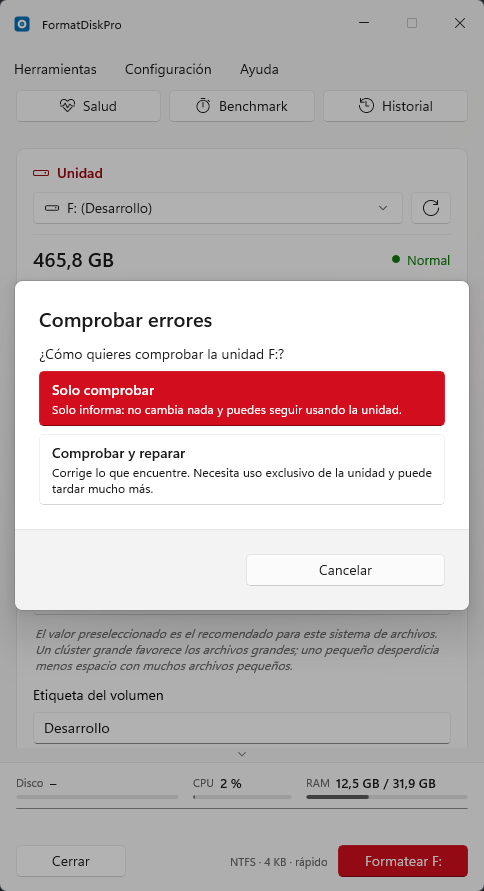
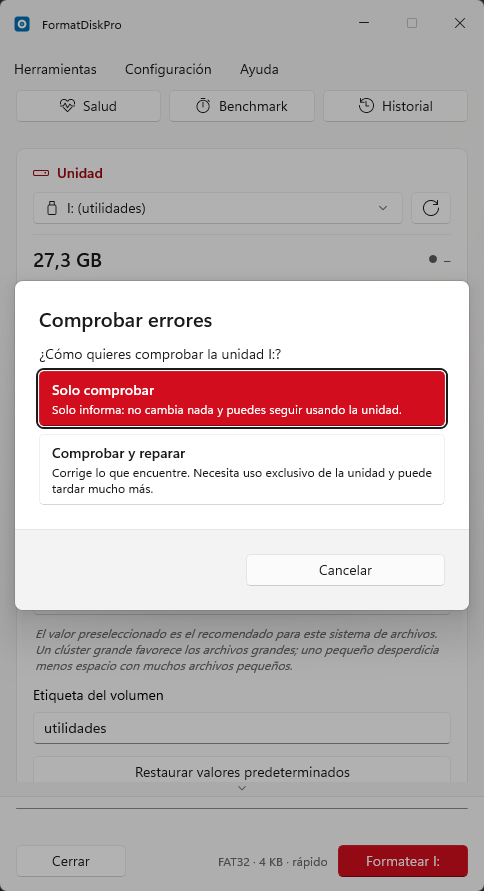
docs: T12-07 — el registro de por qué la franja sobraba, y las 12 capturas sin ella
ROADMAP.md: T12-07 con el porqué completo, el tier a 7/7 y el índice a 108.
CONTEXT.md: §2 sin los tres archivos, §3 a 626 unitarias, y una entrada
razonada con la lección —una petición de producto no exime de comprobar el
problema que dice resolver— y la trampa del borrado por rango en
Localization.cs.

CHANGELOG.md: la entrada de la franja se BORRA en vez de anotarse como
retirada. Vivía en [No publicado]: nunca llegó a un usuario, así que no hay
nada que contarle. El registro de que existió vive en el ROADMAP y en el
CONTEXT, que es donde va la ingeniería.

README.md: fuera la característica.

docs/screenshots: las 12 regeneradas sin la franja, con la USB conectada para
las dos de reinicializar. El contenido gana los ~34 px que ocupaba: la
ventana llega ya hasta «Restaurar valores predeterminados».

diff --git a/CONTEXT.md b/CONTEXT.md
@@ -53,7 +53,6 @@ src/FormatDiskPro/
 │  ├─ ErrorText.cs        Describe(ex) — texto de un fallo que NUNCA sale vacío (tipo + HRESULT si hace falta)
 │  ├─ Presets.cs          Presets integrados (nombre traducido vía NameKey) + validación de los del usuario
 │  ├─ Throughput.cs       Velocidad y ETA de operaciones largas
-│  ├─ SystemLoad.cs       Aritmética del panel de rendimiento (CPU por delta, %, escalado) + MovingAverage
 │  ├─ DeviceChange.cs     Interpretación de WM_DEVICECHANGE (autorefresco de unidades)
 │  ├─ ReleaseNotes.cs     Notas de versión (Markdown) → texto plano
 │  ├─ LegalText.cs        Licencia GPLv3 y avisos de terceros embebidos en el .exe
@@ -73,7 +72,6 @@ src/FormatDiskPro/
 │  ├─ CapacityVerifier.cs  Verificación de capacidad real
 │  ├─ AppSettings.cs       Preferencias (%AppData%\FormatDiskPro\settings.json)
 │  ├─ Notifier.cs          Aviso al terminar (sonido + parpadeo de barra de tareas, Win32)
-│  ├─ PerformanceMonitor.cs CPU/RAM del equipo por Win32 (NO PerformanceCounter: PDH está traducido)
 │  ├─ TaskbarProgress.cs   Progreso en el icono de la barra de tareas (ITaskbarList3)
 │  ├─ FormatProcess.cs     Lanza Format-Volume (PowerShell) y format.com, con progreso real
 │  ├─ UpdateService.cs     GitHub Releases: consulta, descarga, VERIFICACIÓN (firma/SHA-256), instalación
@@ -82,7 +80,6 @@ src/FormatDiskPro/
 │  ├─ MainWindow          Ventana principal, repartida en partial class por asunto (ninguna >800 líneas):
 │  │                      .xaml.cs (ciclo de vida, unidades, formato) · .DriveInfo · .FormatOptions
 │  │                      .Operations (menú Herramientas) · .HelpAndUpdates · .Preferences
-│  │                      .Performance (panel de rendimiento del pie: disco / CPU / RAM)
 │  ├─ DeviceChangeWatcher Subclassing Win32 de WM_DEVICECHANGE (autorefresco de unidades)
 │  ├─ ConfirmDialog       Confirmación reforzada (escribir la letra de la unidad)
 │  ├─ HealthDialog        Detalle S.M.A.R.T. (colores por umbral + texto de estado)
@@ -155,13 +152,13 @@ WinUI, el `x:Name` del XAML se expone como tal sin configuración extra).
 | | |
 |---|---|
 | Build | 0 advertencias / 0 errores |
-| Unitarias | **667 / 667** (666 pasan · 1 se omite) (433 + 20 del arreglo de *FAT32 pequeña* + 40 `T5-01` + 16 `T5-02` + 12 `T5-03` + 5 de la barra de ocupación + 1 de `T6-01` + 9 de `T6-03` + 11 de `T6-04` + 11 de `T6-05` + 3 de `T6-06` + 1 de `T6-09` + 9 de `T6-13` + 3 de `T6-15` + 7 de `T6-12` + 3 de `T7-01`/`T7-03`/`T7-05` + 6 de `T7-08` + 2 de `T7-09` + 7 de `T8-02` + 1 de `T8-03` + 3 de `T8-05` + 16 del Tier 9: 4 de los quick wins (`T9-07`, `T9-10`, `T9-11`, `T9-12`) y 12 del resto (`T9-08`, `T9-09`, `T9-13`, `T9-18`, `T9-19`) + 41 de `T11-01` + 3 de `T12-01`) · se ejecutan **en local**, nunca en CI (ver §4) |
+| Unitarias | **626 / 626** (625 pasan · 1 se omite) (433 + 20 del arreglo de *FAT32 pequeña* + 40 `T5-01` + 16 `T5-02` + 12 `T5-03` + 5 de la barra de ocupación + 1 de `T6-01` + 9 de `T6-03` + 11 de `T6-04` + 11 de `T6-05` + 3 de `T6-06` + 1 de `T6-09` + 9 de `T6-13` + 3 de `T6-15` + 7 de `T6-12` + 3 de `T7-01`/`T7-03`/`T7-05` + 6 de `T7-08` + 2 de `T7-09` + 7 de `T8-02` + 1 de `T8-03` + 3 de `T8-05` + 16 del Tier 9: 4 de los quick wins (`T9-07`, `T9-10`, `T9-11`, `T9-12`) y 12 del resto (`T9-08`, `T9-09`, `T9-13`, `T9-18`, `T9-19`) + 3 de `T12-01`; las 41 de `T11-01` se fueron con la franja en `T12-07`) · se ejecutan **en local**, nunca en CI (ver §4) |
 | UI tests | **2026-09-01, con la USB (`utilidades`) y `FORMATDISKPRO_VERIFY_DRIVE=G`: 34 pasan / 3 se omiten / 0 fallan** en 1 m 57 s — la pasada que cubre los Tiers 11 y 12 (barra de acciones, cabecera de unidad, franja de rendimiento, pie con «Formatear I:», presets y galón de scroll). Las 3 omitidas son opt-in (`ALLOW_YANK` ×2, `ALLOW_DESTRUCTIVE`). Historial: **38** en total (+1 de `T6-01`, +1 de `T6-02`, +1 de `T7-04`, +1 de `T7-02`, +5 de `T7-06`/`T7-07`, +1 de `T8-01`, −2 las dos sondas borradas) · con la USB (`utilidades`) y `--filter "Category!=Slow"`: **26 pasan / 3 se omiten / 0 fallan** en **1 m 47 s** (2026-08-17, antes del Tier 7) · las 3 omitidas son de opt-in (2 `ALLOW_YANK` + 1 `ALLOW_DESTRUCTIVE`), no falta de hardware · **sin** la USB: 19 pasan / 10 se omiten (con alguna unidad no-sistema conectada; el 2026-08-26, sin ninguna y ya con el Tier 7 y el Tier 8, fueron **27 pasan / 11 se omiten / 0 fallan** en 16 s — los cuatro `[NonSystemDriveFact]` de `FormatOptionsUiTests` también se omiten) · el corte usa ese mismo filtro y **dice qué dejó fuera** |
 | Instalador | Verificado por SHA-256 (hash emparejado con su instalador) y probado **end-to-end** (limpia + in-place) |
 | Publicado | **v1.25.0** (2026-08-26) · `master` **con trabajo sin publicar**: los Tiers 11 y 12 enteros (`T11-01`–`T11-04` y `T12-01`–`T12-04`, 2026-09-01) están en `[No publicado]` del [`CHANGELOG.md`](CHANGELOG.md) |
 | Auditoría | 2026-08-13 — **CERRADA el 2026-08-16**: 39/40 completadas + 2 descartadas (`T2-10` CI, `T4-03` firma) · **0 abiertas** ([`ROADMAP.md`](ROADMAP.md) Parte 2) |
 | Ocurrencias | **Tier 5 CERRADO (2026-08-16)**: `T5-01`, `T5-02`, `T5-03` y `T5-05` completadas · `T5-04` (N particiones) **descartada** por decisión de producto — el motor admite N, lo limitado es la interfaz |
-| Tiers abiertos | **Tier 12 — Lo que la ventana no dice**, abierto y **cerrado el 2026-09-01, 6/6**, de una revisión de UI/UX. Su primer hallazgo **no es una preferencia**: `TextFillColorTertiaryBrush` da **3,29:1** en tema claro —por debajo del 4,5:1 de WCAG AA— y pintaba 18 controles de la ventana principal, y el barrido de contraste no podía verlo porque solo medía los colores propios. Los otros cinco: el botón primario nombra la unidad («Formatear H:»), el pie resume lo que se aplicará, los presets bajan a la tarjeta que configuran, la **barra de progreso deja de usar el acento del sistema** —en un equipo con acento rojo el éxito y el fallo eran el mismo color— y la barra de desplazamiento aparece cuando hay algo que desplazar · **Tier 11 — Rendimiento y jerarquía de la ventana principal**, abierto y **cerrado el 2026-09-01, 4/4**. No sale de un fallo sino de una petición de producto sobre la ventana principal, y las tres tareas atacan la misma raíz —**qué se ve y con qué peso**—: `T11-01` (el pie enseña disco, CPU y RAM mientras corre la operación), `T11-02` (salud, benchmark e historial salen del menú a una barra de acciones), `T11-03` (la tarjeta de unidad se ordena por importancia) y `T11-04` (ese panel deja de ser un desplegable: compactado a tres columnas cabe en una línea, y con eso desapareció el motivo de poder plegarlo). La **galería está regenerada** (2026-09-01): las 12 capturas del README rehechas con la app real, y fue justo eso lo que destapó que el arreglo de `T12-06` no hacía nada. Ver [`ROADMAP.md`](ROADMAP.md#-tier-11--rendimiento-y-jerarquía-de-la-ventana-principal-abierto-2026-09-01) |
+| Tiers abiertos | **Tier 12 — Lo que la ventana no dice**, abierto y **cerrado el 2026-09-01, 7/7**, de una revisión de UI/UX. Su primer hallazgo **no es una preferencia**: `TextFillColorTertiaryBrush` da **3,29:1** en tema claro —por debajo del 4,5:1 de WCAG AA— y pintaba 18 controles de la ventana principal, y el barrido de contraste no podía verlo porque solo medía los colores propios. Los otros cinco: el botón primario nombra la unidad («Formatear H:»), el pie resume lo que se aplicará, los presets bajan a la tarjeta que configuran, la **barra de progreso deja de usar el acento del sistema** —en un equipo con acento rojo el éxito y el fallo eran el mismo color— la barra de desplazamiento aparece cuando hay algo que desplazar, y **`T12-07` retira la franja de rendimiento entera** —revierte `T11-01` y `T11-04`— porque su justificación de partida era falsa: el cronómetro del pie ya escribía velocidad y ETA · **Tier 11 — Rendimiento y jerarquía de la ventana principal**, abierto y **cerrado el 2026-09-01, 4/4**. No sale de un fallo sino de una petición de producto sobre la ventana principal, y las tres tareas atacan la misma raíz —**qué se ve y con qué peso**—: `T11-01` (el pie enseña disco, CPU y RAM mientras corre la operación), `T11-02` (salud, benchmark e historial salen del menú a una barra de acciones), `T11-03` (la tarjeta de unidad se ordena por importancia) y `T11-04` (ese panel deja de ser un desplegable: compactado a tres columnas cabe en una línea, y con eso desapareció el motivo de poder plegarlo). La **galería está regenerada** (2026-09-01): las 12 capturas del README rehechas con la app real, y fue justo eso lo que destapó que el arreglo de `T12-06` no hacía nada. Ver [`ROADMAP.md`](ROADMAP.md#-tier-11--rendimiento-y-jerarquía-de-la-ventana-principal-abierto-2026-09-01) |
 | Tareas abiertas | **Una, y bloqueada a propósito: `T10-02`** ([Tier 10](ROADMAP.md#-tier-10--lo-que-solo-aparece-al-publicar-abierto-2026-08-26), abierto el **2026-08-26**). No sale de una revisión sino de **publicar**: al cortar la v1.25.0 la puerta de cobertura abortó el corte con el informe **vacío** y el arreglo de `T8-06` puesto, y **no se reprodujo en tres intentos**. `T10-01` (2026-08-27) hizo que la próxima vez queden pruebas y que el mensaje deje de culpar al paquete equivocado; `T10-02` es **la causa**, y espera a que vuelva a ocurrir. El **Tier 9** —re-auditoría transversal de las 12 áreas, ejecutada sobre la máquina— se abrió y se cerró el **2026-08-26**, **20/20**. De sus 20 tareas **ninguna era un fallo de las operaciones de disco**: la única **Alta** (`T9-01`) estaba en el corte de versión, que podía publicar un instalador sin correspondencia con el commit etiquetado, y las dos más reveladoras (`T9-04`/`T9-05`) estaban en la propia herramienta de auditoría, que perdía en silencio 4 de sus 26 capturas —incluida la del diálogo destructivo—. Ver [`ROADMAP.md`](ROADMAP.md#-tier-9--re-auditoría-transversal-con-la-app-en-marcha-abierto-2026-08-26) |
 | Tiers cerrados | El **Tier 8** cerró el **2026-08-26**, 6/6: salió de una captura del historial en uso —cuatro `EXPORT ERROR:` sin nada detrás— y encontró que ***Exportar CSV* nunca funcionó en ninguna versión publicada** (`T8-01`), que los errores podían salir vacíos (`T8-02`) y que otros dos botones podían no hacer nada (`T8-03`). El **Tier 7** cerró el mismo día, 9/9: `T7-08` era la comprobación a ojo que FlaUI no podía medir, y dio **no** —WinUI no pinta el tooltip de un control deshabilitado—, así que el motivo de `T7-02` bajó al texto visible del ítem — y mirar ese menú arreglado abrió `T7-09`, el marco de foco recortado en los seis diálogos. Antes, la revisión con la app en marcha (`T7-06`) desmintió la sospecha de partida —los `ListView` sí se recorren con teclado— y abrió `T7-07`. El **Tier 6** cerró el 2026-08-17, 15/15. Producto, auditoría y Tier 5: cerrados |
 
@@ -415,6 +412,56 @@ ni mueve datos).
 | **1.2.1** | Fix crítico: la 1.2.0 crasheaba al iniciar (faltaba el `.pri` en el publish). |
 | **1.2.0** | Migración de Windows Forms a **WinUI 3**. *(Obsoleta/rota: no usar.)* |
 | **1.1.0** | Arquitectura por capas, hardening, tests, actualizaciones e instalador. |
+
+---
+
+### 2026-09-01 — `T12-07`: la franja de rendimiento se retira, porque el problema que resolvía no existía
+
+Se va entera: `Core/SystemLoad.cs` con `MovingAverage`, `Services/PerformanceMonitor.cs`,
+`UI/MainWindow.Performance.cs`, la franja del XAML, los tres estilos `Metric*`,
+`AppServices.Performance`, las 11 claves `perf.*` en cinco idiomas y sus **41 unitarias**. Es decir,
+`T11-01` y `T11-04` completas. Quedan **626 pruebas**.
+
+**El motivo de peso: la justificación de partida era falsa, y no se comprobó.** `T11-01` se defendió con
+«en un borrado seguro de 40 minutos la única señal de vida era una barra de progreso». No lo era:
+`TimerElapsed_Tick` ya escribía en el pie `03:41 · 42,3 MB/s · ETA 05:12` — y **para las mismas dos
+operaciones** que alimentaban la fila de Disco, verificación de capacidad y borrado seguro. La fila de
+Disco era un duplicado de la línea que tenía justo debajo, y peor, porque no llevaba ETA. Bastaba leer
+ese método antes de proponer la franja.
+
+**Las tres filas fallaban por motivos distintos**, y por eso no había subconjunto que salvar: Disco
+**duplicaba**; CPU y RAM del equipo **decoraban**. Lo segundo estaba dicho en la propia conversación que
+la encargó —«en un formateador de discos eso es decoración»— y se construyó igual. Quitar CPU/RAM y dejar
+Disco conserva el duplicado; quitar Disco y dejar CPU/RAM conserva lo decorativo.
+
+**Lo que costaba:** ~34 px permanentes en una ventana de **alto fijo** donde los Tiers 11 y 12 llevaban
+peleando por espacio vertical —`T12-03` existe precisamente porque las opciones de formato quedaban bajo
+el pliegue—, más un servicio Win32 con temporizador atado a la activación de la ventana, 41 pruebas y 55
+cadenas traducidas. Y la fila de Disco enseñaba `–` en 3 de las 5 operaciones.
+
+**Lo único que se pierde y no está en otro sitio es el pico** de velocidad. Se deja fuera a propósito:
+cabría en el cronómetro en una línea, pero nadie lo ha pedido, y añadirlo «por si acaso» es exactamente
+como empezó esto.
+
+**Lo que sobrevive de aquel trabajo, porque se sostiene solo:**
+
+- El **color de la barra de progreso** (`T12-05`) — salió de mirar la franja funcionando, y arregla un
+  defecto real que llevaba ahí desde siempre.
+- El **galón de scroll** (`T12-06`).
+- **`SeverityPalette.MutedText` y su barrido** (`T12-01`) — nació de medir los grises que la franja usaba
+  y ahora protege a toda la ventana.
+
+**La lección, y va al §4 en espíritu:** una petición de producto no exime de comprobar el problema que
+dice resolver. La franja se construyó **bien** —compacta, medida, accesible, con 41 pruebas y traducida a
+cinco idiomas— sobre un problema que no existía. Todo ese cuidado no la salvó, y no podía: ningún test
+comprueba que la funcionalidad haga falta.
+
+**Una trampa al retirarla**, anotada porque volvería igual: el bloque de claves `perf.*` estaba pegado al
+de `bar.*` en `Localization.cs`, y borrarlo por rango se llevó las etiquetas de la barra de acciones.
+La app arrancó enseñando `bar.health` en crudo —`L.T` devuelve la clave cuando falta, que es lo correcto
+y también lo que hace el fallo silencioso—. Lo cazó **regenerar las capturas**, otra vez; y al
+restaurarlas se duplicaron tres claves, que un barrido de duplicados encontró. Un `Dictionary` con
+indexador no se queja de una clave repetida: sobrescribe.
 
 ---
 

diff --git a/ROADMAP.md b/ROADMAP.md
@@ -325,8 +325,8 @@ Adoptar cualquiera de estos sería **cambiar el alcance del producto**:
 | **T9** | **Re-auditoría transversal con la app en marcha** — 1 Alta · 9 Medias · 10 Bajas · **20/20, cerrado** | 20 | bajo-medio |
 | **T10** | **Lo que solo aparece al publicar** — nacido del corte de la v1.25.0 · `T10-01` hecha · `T10-02` **abierta, a la espera de que vuelva a ocurrir** | 2 | bajo |
 | **T11** | **Rendimiento y jerarquía de la ventana principal** — el pie deja de ser solo una barra, las tres herramientas de solo lectura salen del menú y la tarjeta de unidad se ordena por importancia · **4/4, cerrado** | 4 | bajo |
-| **T12** | **Lo que la ventana no dice** — un contraste por debajo de AA que el barrido no veía, el botón que no nombraba lo que destruye, las opciones bajo el pliegue, los presets lejos de lo que configuran y una barra de progreso en la que el éxito y el fallo eran el mismo color · **6/6, cerrado** | 6 | bajo |
-| | **Total** | **107** | |
+| **T12** | **Lo que la ventana no dice** — un contraste por debajo de AA que el barrido no veía, el botón que no nombraba lo que destruye, las opciones bajo el pliegue, los presets lejos de lo que configuran, una barra de progreso en la que el éxito y el fallo eran el mismo color, y la retirada de la franja de rendimiento · **7/7, cerrado** | 7 | bajo |
+| | **Total** | **108** | |
 
 > **Esta tabla se quedó atrás dos tiers** (marcaba el T6 como «lo único abierto» y sumaba 60) hasta la
 > re-auditoría del 2026-08-26. Al añadir un tier hay que tocarla: es el único sitio donde se ve el
@@ -2454,6 +2454,39 @@ ofrece y luego se niega, y qué hay que repetir a mano.
   - **Esfuerzo:** bajo
   - **Depende de:** ninguna
 
+- [x] **[T12-07] La franja de rendimiento no aportaba nada, y se retira** — **hecho (2026-09-01)** · Media
+  - **Área:** UI / alcance de producto
+  - **Qué se quitó:** `Core/SystemLoad.cs` (con `MovingAverage`), `Services/PerformanceMonitor.cs`,
+    `UI/MainWindow.Performance.cs`, la franja del XAML, los tres estilos `Metric*`,
+    `AppServices.Performance`, las 11 claves `perf.*` (× 5 idiomas) y sus **41 unitarias**. Es decir,
+    `T11-01` y `T11-04` enteras. **626 pruebas** tras la retirada.
+  - **Por qué, y el motivo de peso es que la justificación de partida era falsa.** `T11-01` se defendió
+    con «en un borrado seguro de 40 minutos la única señal de vida era una barra de progreso». **No era
+    cierto**: `TimerElapsed_Tick` ya escribía en el pie `03:41 · 42,3 MB/s · ETA 05:12`, y **para las
+    mismas dos operaciones** que alimentaban la fila de Disco (verificación de capacidad y borrado
+    seguro). La fila de Disco era un duplicado de la línea que tenía justo debajo — y peor, porque no
+    llevaba ETA. La afirmación no se comprobó antes de construir.
+  - **Las tres filas fallaban por motivos distintos, que es lo que impedía salvar un subconjunto:**
+    Disco **duplicaba**; CPU y RAM del equipo **decoraban** —no son asunto de un formateador de discos, y
+    eso estaba dicho en la propia conversación que la encargó antes de construirla—. Quitar CPU/RAM y
+    dejar Disco conserva el duplicado; quitar Disco y dejar CPU/RAM conserva lo decorativo.
+  - **Lo que costaba:** ~34 px permanentes en una ventana de **alto fijo** donde este mismo tier y el
+    anterior llevaban peleando por espacio vertical (`T12-03`: las opciones quedaban bajo el pliegue), más
+    un servicio Win32 con temporizador atado a la activación de la ventana, 41 pruebas y 55 cadenas
+    traducidas. La fila de Disco enseñaba `–` en 3 de las 5 operaciones.
+  - **Lo único que se pierde y no está en otro sitio** es el **pico** de velocidad. Se deja fuera a
+    propósito: cabría en el cronómetro en una línea, pero nadie lo ha pedido y añadirlo «por si acaso» es
+    cómo empezó esto.
+  - **Lo que SÍ sobrevive de aquel trabajo**, porque se sostiene solo: el color de la barra de progreso
+    (`T12-05`), que salió de mirar la franja funcionando; el galón de scroll (`T12-06`); y
+    `SeverityPalette.MutedText` con su barrido (`T12-01`), que nació de medir los grises que la franja
+    usaba y ahora protege a toda la ventana.
+  - **La lección:** una petición de producto no exime de comprobar el problema que dice resolver. La
+    franja se construyó bien —compacta, medida, accesible, probada— sobre un problema que no existía.
+  - **Verificado:** build 0/0, **626/626**, y con las capturas regeneradas.
+  - **Esfuerzo:** bajo
+  - **Depende de:** revierte `T11-01` y `T11-04`
+
 ### Dos refinamientos que se propusieron y NO se hicieron
 
 Los dos salieron de la misma revisión que abrió este tier, y al mirarlos de cerca no se sostuvieron.
@@ -2639,6 +2672,7 @@ restauran.
 
 | Fecha | Tarea | Notas |
 |---|---|---|
+| 2026-09-01 | **T12-07** | **Se retira la franja de rendimiento entera** (`T11-01` + `T11-04`). El motivo de peso: su justificación de partida era **falsa** — se defendió con «la única señal de vida era una barra de progreso» y el cronómetro del pie **ya escribía velocidad y ETA**, para las mismas dos operaciones. La fila de Disco duplicaba la línea de debajo; CPU y RAM decoraban. Cada fila fallaba por un motivo distinto, así que no había subconjunto que salvar. Fuera ~34 px permanentes, un servicio Win32, 41 pruebas y 55 cadenas (**626 unitarias**). Sobrevive lo que se sostiene solo: el color de la barra de progreso, el galón de scroll y `MutedText`. Lección: una petición de producto no exime de comprobar el problema que dice resolver. |
 | 2026-09-01 | **T12-05** y **T12-06** | **`T12-05` salió de una captura del usuario**: un benchmark que terminó BIEN dejaba la barra llena y roja, igual que uno fallido — `FormatProgress` usaba el color de **acento del sistema** y en ese equipo el acento es rojo, así que `ShowError` no distinguía nada. Es la decisión que `CapacityBrush` ya había tomado («no debe usar el color de ACENTO del sistema»), sin aplicar aquí. Ahora el verde de `SeverityPalette` significa que va bien y el rojo que no, en cualquier equipo; **verificado en los dos estados** con la app en marcha, porque fijar `Foreground` a mano podía haber ganado al estado de error del control. `T12-06`: la barra de desplazamiento se deja a la vista cuando hay algo que desplazar — el degradado que se probó primero se descartó **con la app delante** (sobre Mica no hay fondo opaco que igualar y se leía como una franja clara). Y una corrección: el benchmark **no** alimenta la fila de Disco y no debe — su progreso es por ventana y contradiría su propia mediana. |
 | 2026-09-01 | **T12-01** a **T12-04** | **Se abre y se cierra el Tier 12**, de una revisión de UI/UX. El primero es un **defecto medido**: `TextFillColorTertiaryBrush` da **3,29:1** en claro —por debajo de AA— y pintaba 18 controles, entre ellos las pistas que explican qué clúster elegir. El barrido no podía verlo porque solo medía los colores propios, que es **el mismo fallo que ese inventario existe para evitar**: ahora `TextContrastTests` recorre el XAML y mide lo que hay puesto, y `SeverityPalette.MutedText` (5,07:1 / 5,03:1) conserva el tercer nivel de jerarquía en vez de borrarlo. **Verificado en negativo.** Los otros tres: el botón primario pasa de «Iniciar» a **«Formatear H:»** (era el único control capaz de destruir un disco sin nombrarlo), el pie resume **`NTFS · 4 KB · rápido`** porque las opciones quedan bajo el pliegue y el botón no, y los presets bajan a la tarjeta que configuran. +3 unitarias (667). |
 | 2026-09-01 | **T11-04** | El panel de rendimiento deja de ser un `Expander` y pasa a una **franja fija de tres columnas** (~34 px, menos que el encabezado que el desplegable ocupaba plegado). El razonamiento de `T11-01` estaba mal: plegar se justificó por el alto, pero el clic y el resumen del encabezado se pagan **siempre** y el alto solo desplegado — la respuesta era compactar, no plegar. Los pies de cada métrica van al tooltip, que aquí **sí** se muestra porque estos controles nunca se deshabilitan (`T7-08`). Se elimina la preferencia `ShowPerformance` y el muestreo pasa a depender de si la ventana está al frente. |

diff --git a/README.md b/README.md
@@ -104,7 +104,6 @@ filtros por categoría y resultado, y exportación a CSV.
 - **Visor de historial integrado** dentro de la app (con **búsqueda y filtros** por categoría/resultado, y **exportación a CSV** por el diálogo «Guardar como» de Windows), además del registro de auditoría en `%AppData%\FormatDiskPro\history.log`
 - **Lista de unidades autorefrescada**: se actualiza sola al **conectar o desconectar** una unidad (además del botón Refrescar / F5)
 - **Tiempo transcurrido, velocidad y ETA** en operaciones largas, con **cancelación segura** de cualquier operación
-- **Franja de rendimiento** en el pie, siempre visible y en una sola línea: **Disco** (velocidad de la operación en curso), **CPU** y **RAM** del equipo, con barras que siguen los mismos umbrales de color que la barra de ocupación. El detalle de cada una —el **pico** alcanzado, los núcleos, lo que consume la app— está en su tooltip. El caudal sale de los bytes que **la propia operación** reporta, no de un contador del sistema, y solo se muestrea con la ventana al frente o con algo corriendo
 - **Aviso al terminar**: sonido + parpadeo de la barra de tareas al completar operaciones largas (solo si la ventana no está en primer plano), para poder alejarte del PC; se activa/desactiva en *Configuración → Avisar al terminar*
 - **Actualizaciones integradas**: comprueba GitHub Releases al inicio y bajo demanda; el aviso *"Actualización disponible"* muestra el **changelog** de la nueva versión antes de descargar e instalar
 - **Diálogo de novedades**: tras actualizar, muestra automáticamente (una sola vez) las novedades de la nueva versión —las mismas notas publicadas en GitHub Releases—; también disponible en cualquier momento desde *Ayuda → Novedades…*

diff --git a/CHANGELOG.md b/CHANGELOG.md
@@ -15,23 +15,6 @@ El formato sigue [Keep a Changelog](https://keepachangelog.com/es-ES/1.1.0/) y e
 
 ## [No publicado]
 
-### Añadido
-
-- **Franja de rendimiento en el pie de la ventana.** Una sola línea, siempre visible y sin nada que
-  desplegar, con tres métricas: **Disco** (a qué velocidad va la operación en curso), **CPU** y **RAM**
-  del equipo, cada una con su valor y una barra fina. En un borrado seguro de 40 minutos o una
-  verificación de capacidad larga, la única señal de vida era hasta ahora una barra de progreso, y con
-  ella quieta no había forma de distinguir «va lento» de «se colgó». El detalle de cada métrica —el
-  **pico** alcanzado, los núcleos del equipo, lo que consume la propia app— está en su tooltip. El
-  muestreo **solo corre** mientras la ventana está al frente o hay una operación en curso.
-
-  Tres cosas que el panel **no** hace, a propósito: no enseña «CPU del proceso» —formatear, comprobar y
-  reinicializar los ejecutan `format.com`, `chkdsk.exe` o PowerShell en procesos aparte, así que diría
-  casi 0 y sería mentira—; no lee el caudal de un contador del sistema, sino de los **bytes que la propia
-  operación reporta**, que es lo que estás esperando y no el tráfico de toda la máquina; y su barra de
-  disco no se escala contra un máximo teórico, que no existe, sino contra el **pico de esa misma
-  operación**. Traducido a los cinco idiomas.
-
 ### Corregido
 
 - **La barra de progreso pintaba igual el éxito que el fallo en equipos con el acento en rojo.** Usaba el
